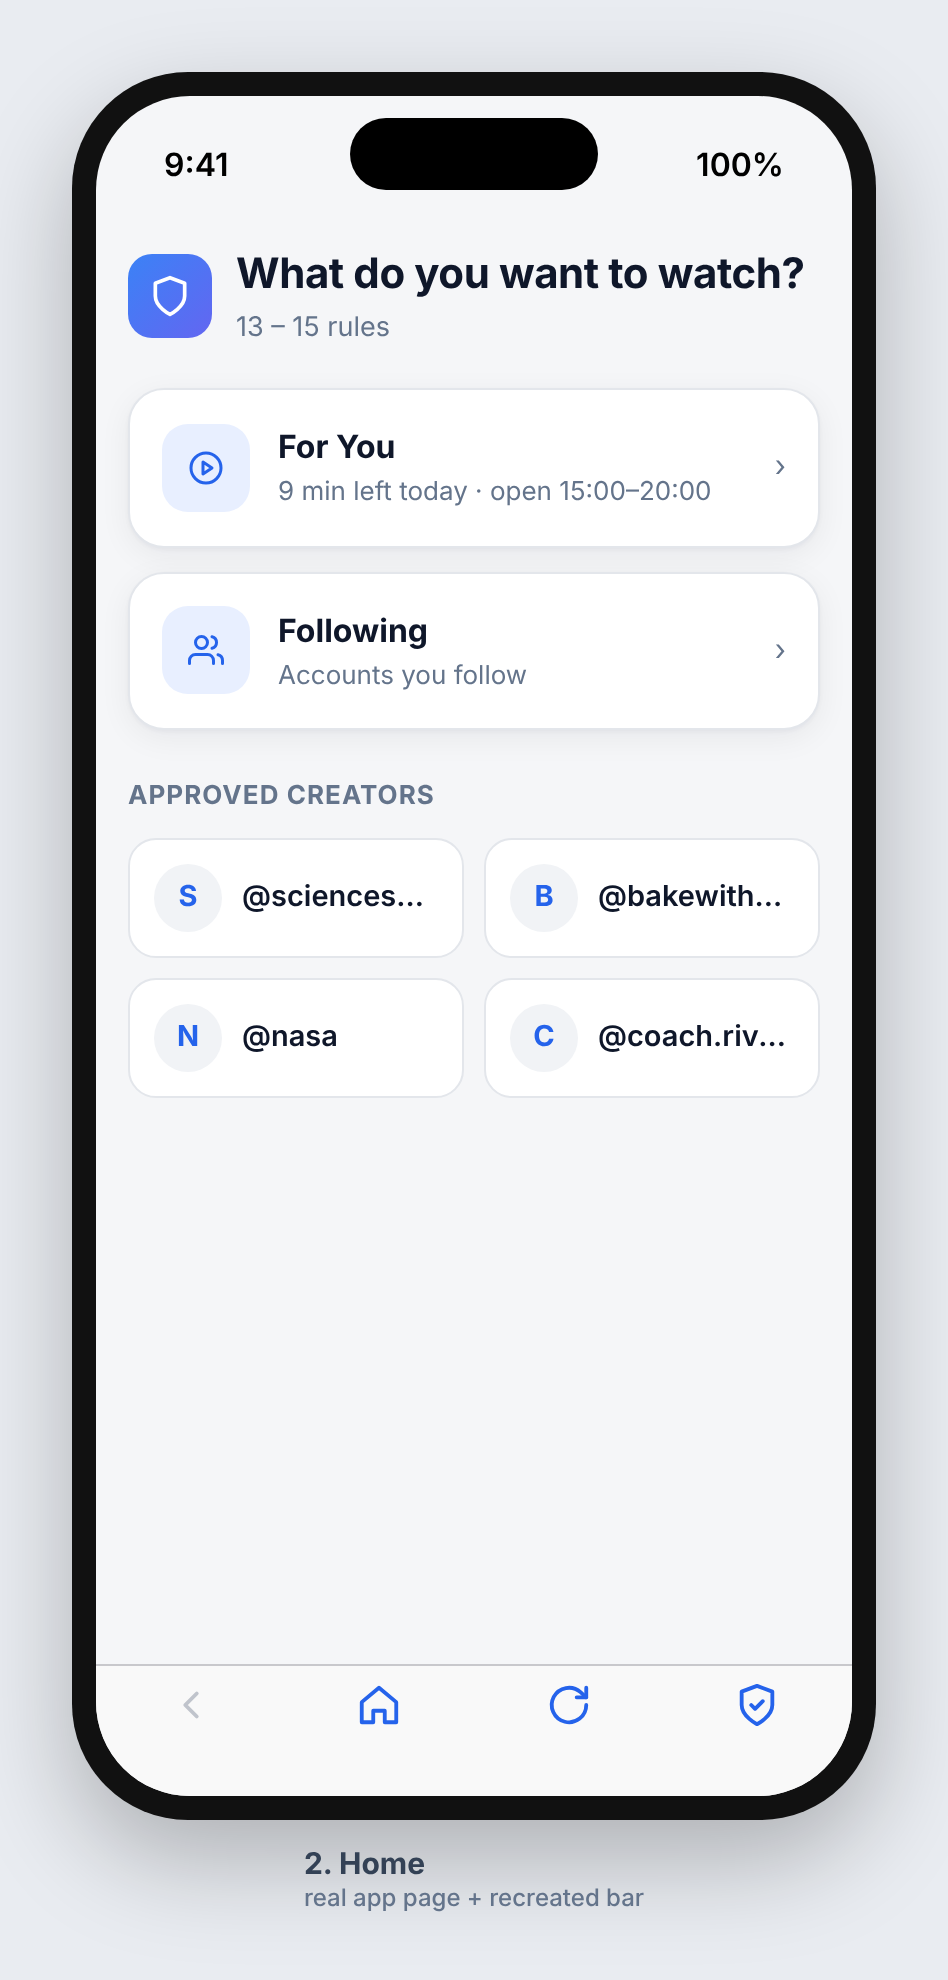
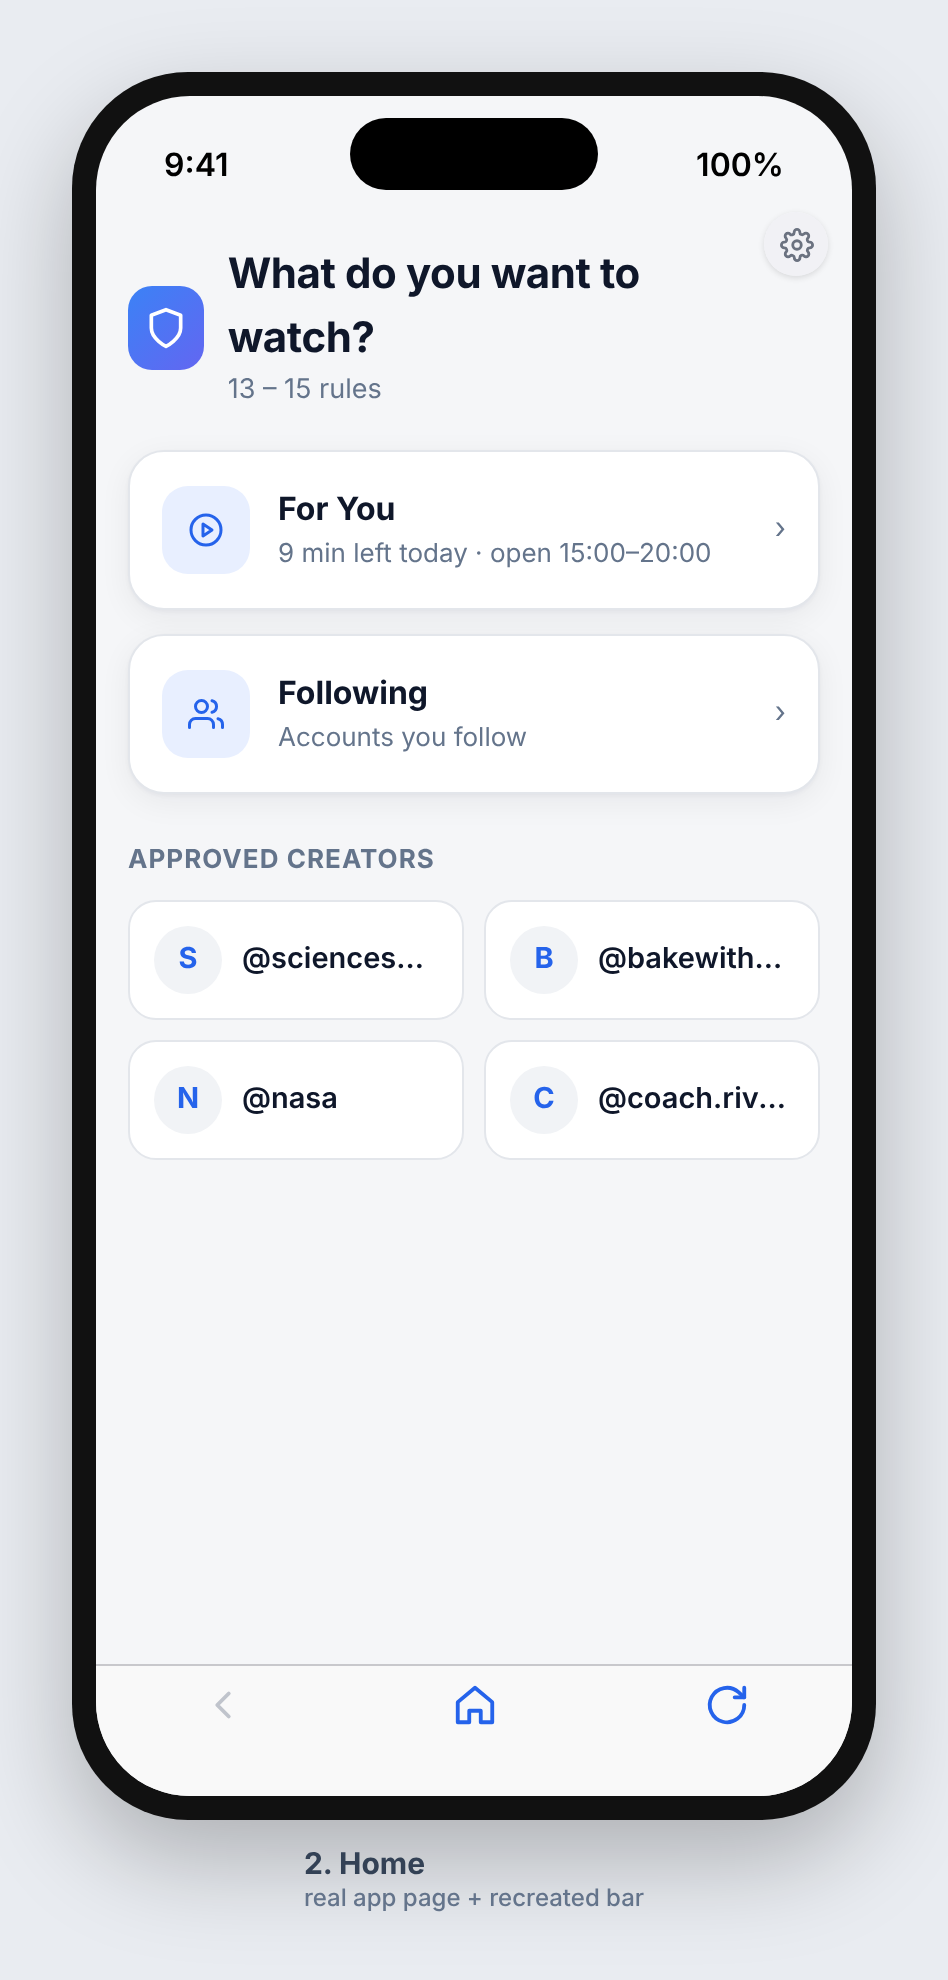
Move settings to a small top-right cog; open straight into TikTok after first setup
Claude-Session: https://claude.ai/code/session_01WQztDGCAWhknUg1g7U3Ees

diff --git a/ios/SafeScrollTok/App.swift b/ios/SafeScrollTok/App.swift
@@ -49,6 +49,9 @@ final class AppModel: ObservableObject {
     }
 }
 
+/// Setup and the welcome screen only ever show once. After that the app opens
+/// straight into TikTok with the saved settings (kept in UserDefaults and the
+/// web view's own cookie store, so they survive closing the app and restarts).
 struct RootView: View {
     @EnvironmentObject var model: AppModel
     var body: some View {
@@ -114,10 +117,22 @@ struct MainView: View {
                 bar("chevron.left", "Back") { browser.webView.goBack() }.disabled(!browser.canGoBack)
                 bar("house", "Home") { browser.goHome() }
                 bar("arrow.clockwise", "Reload") { browser.webView.reload() }
-                bar("checkmark.shield", "Settings") { model.showSettings = true }
             }
             .padding(.vertical, 6)
             .background(.bar)
+        }
+        // Small cog for parent settings, top-right on every screen.
+        .overlay(alignment: .topTrailing) {
+            Button { model.showSettings = true } label: {
+                Image(systemName: "gearshape.fill")
+                    .font(.system(size: 15, weight: .semibold))
+                    .foregroundStyle(.secondary)
+                    .frame(width: 32, height: 32)
+                    .background(.ultraThinMaterial, in: Circle())
+            }
+            .padding(.top, 4)
+            .padding(.trailing, 12)
+            .accessibilityLabel("Settings")
         }
         .overlay(alignment: .top) {
             if let toast = model.toast {

diff --git a/ios/SafeScrollTok/Web/home.js b/ios/SafeScrollTok/Web/home.js
@@ -29,7 +29,7 @@
     const list = cfg.friendAllowlist;
     document.getElementById("creators").innerHTML = list.length
       ? list.map(u => `<a class="creator" href="https://www.tiktok.com/@${encodeURIComponent(u)}"><i>${esc(u[0].toUpperCase())}</i><span>@${esc(u)}</span></a>`).join("")
-      : `<div class="empty" style="grid-column:1/-1">No creators yet. Add usernames under Friends in Settings (the shield button).</div>`;
+      : `<div class="empty" style="grid-column:1/-1">No creators yet. Add usernames under Friends in Settings (the cog, top right).</div>`;
 
     document.getElementById("note").innerHTML = cfg.accountsAllowed ? "" :
       `${icon("lock")}<span>Where you live, TikTok accounts start at ${cfg.minAccountAge}, so log in and sign up are off. Public videos still play.</span>`;

diff --git a/ios/SafeScrollTok/Web/home.html b/ios/SafeScrollTok/Web/home.html
@@ -5,7 +5,7 @@
 <link rel="stylesheet" href="/ui/base.css">
 <style>
   body{padding:calc(env(safe-area-inset-top) + 20px) 16px 32px;max-width:560px;margin:0 auto}
-  .hello{display:flex;align-items:center;gap:12px;margin-bottom:20px}
+  .hello{display:flex;align-items:center;gap:12px;margin-bottom:20px;padding-right:40px} /* room for the settings cog */
   .logo{width:42px;height:42px;border-radius:12px;display:grid;place-items:center;background:linear-gradient(135deg,#3b82f6,#6366f1);color:#fff}
   .logo .ic{width:22px;height:22px}
   .hello h1{font-size:21px}

diff --git a/ios/README.md b/ios/README.md
@@ -13,9 +13,9 @@ A personal iPhone app that opens TikTok's mobile website inside the app with the
 2. **Welcome screen** (native):
    - If accounts are allowed for that age and country: **Sign in**, **Create an account** or **Watch without an account**. Log in and sign up are TikTok's own pages, opened inside the app. The app never sees your password.
    - If they're not allowed (for example under 16 in Australia): **Start watching**, logged out.
-3. **Main screen:** TikTok's mobile site with a bottom bar: **Back**, **Home**, **Reload** and **🛡 Settings**.
+3. **Every launch after that:** the app opens straight into TikTok with your saved settings, sign-in and limits. Setup and the welcome screen never show again. TikTok's mobile site fills the screen, with a bottom bar (**Back**, **Home**, **Reload**) and a small **⚙ cog** in the top-right corner for settings.
    - **Home** shows For You (with today's time left), Following (when logged in) and the approved creators from Settings.
-   - **Settings** is the same parent dashboard as the extension, behind the PIN. Its **⋯** menu has **Sign out of TikTok**.
+   - **⚙ Settings** is the same parent dashboard as the extension, behind the PIN. Its **⋯** menu has **Sign out of TikTok**.
 
 ## What it does automatically
 - **Filters run on every TikTok page:** content filters, For You limits and breaks, the approved-friends list, hidden suggestions, screen time and bedtime. These are the extension's scripts, injected into an isolated script world that TikTok's own code can't see.
